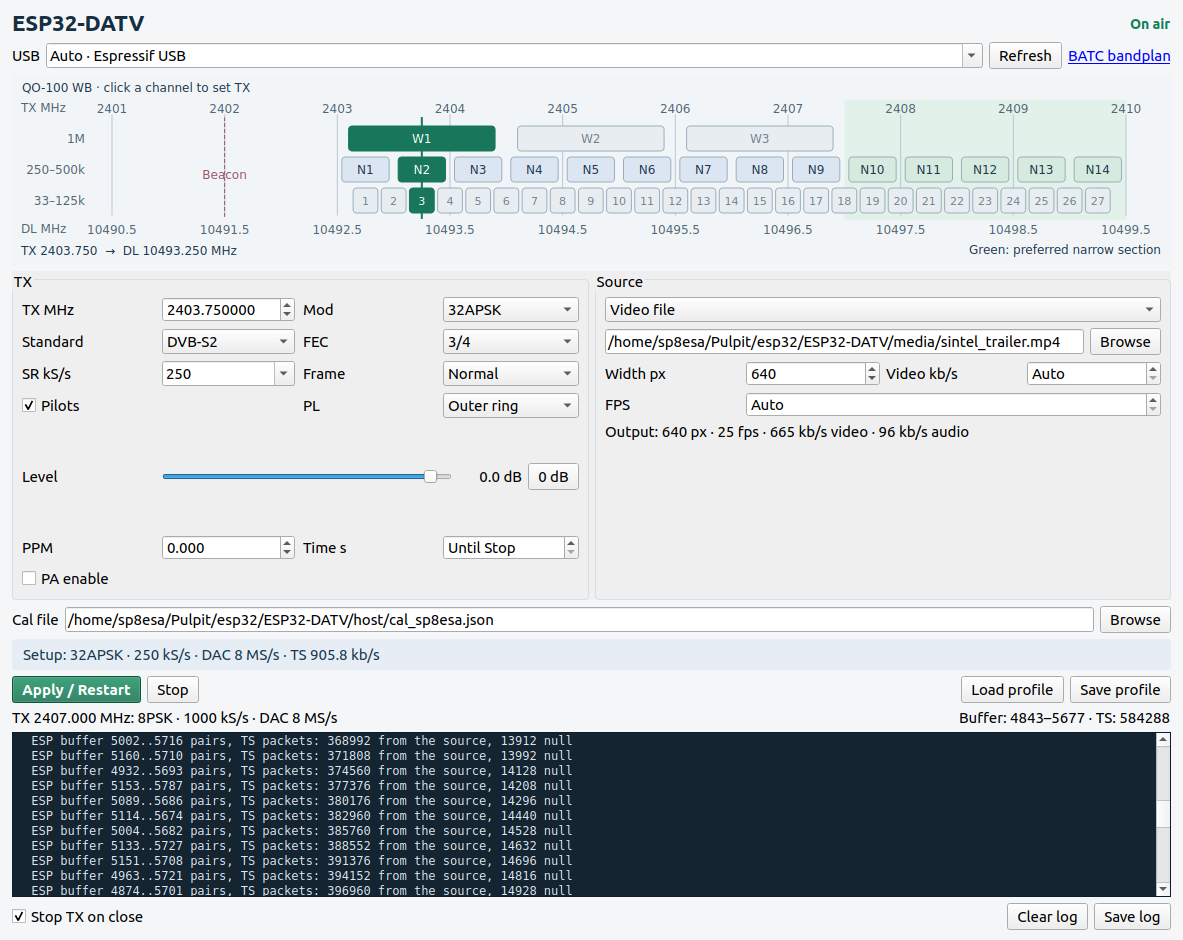
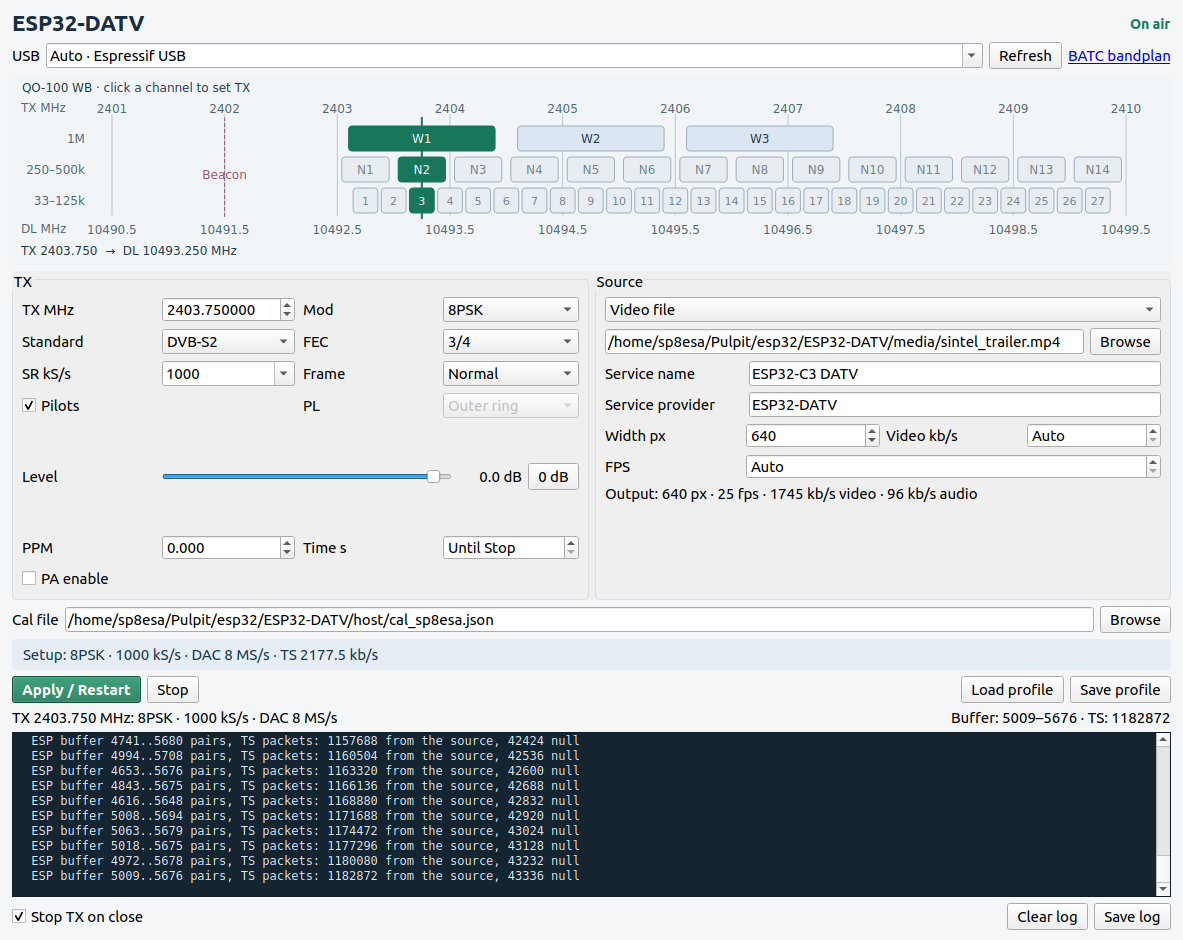
Make service metadata editable in transmitter GUI

diff --git a/host/tx_dvbs.py b/host/tx_dvbs.py
@@ -44,7 +44,8 @@ sys.path.insert(0, HERE)
 import dvbs  # noqa: E402
 import dvbs2  # noqa: E402
 import esp_link  # noqa: E402
-from tx_media import build_media_command, encoding_settings, validate_source
+from tx_media import (build_media_command, encoding_settings, validate_source,
+                      DEFAULT_SERVICE_NAME, DEFAULT_SERVICE_PROVIDER, validate_service_metadata)
 
 CPU_HZ = 160_000_000
 P8_MIN_PERIOD = 75                 # floor interval, including fractional-deadline overhead in the C loop
@@ -59,7 +60,8 @@ class TsSource:
 
     def __init__(self, kind, arg, cap, width=640, video_k=0, output_fps=0,
                  camera_size="640x480", camera_fps=30, camera_format="auto",
-                 audio_source="none", audio_device="default"):
+                 audio_source="none", audio_device="default",
+                 service_name=DEFAULT_SERVICE_NAME, service_provider=DEFAULT_SERVICE_PROVIDER):
         self.q = queue.Queue(maxsize=400)
         self.kind, self.arg = kind, arg
         self.nulls = self.pkts = 0
@@ -72,7 +74,8 @@ class TsSource:
             return
         validate_source(kind, arg, camera_size, camera_fps, camera_format, audio_source)
         command = build_media_command(kind, arg, cap, width, video_k, output_fps,
-                                      camera_size, camera_fps, camera_format, audio_source, audio_device)
+                                      camera_size, camera_fps, camera_format, audio_source, audio_device,
+                                      service_name=service_name, service_provider=service_provider)
         if command:
             self.proc = subprocess.Popen(command, stdout=subprocess.PIPE, stdin=subprocess.DEVNULL, start_new_session=True)
             self.input = self.proc.stdout
@@ -287,6 +290,8 @@ def build_parser():
     ap.add_argument("--camera-format", choices=("auto", "mjpeg", "yuyv422", "nv12", "h264"), default="auto")
     ap.add_argument("--audio-source", choices=("none", "pulse", "alsa"), default="none", help="camera audio; none supplies silence")
     ap.add_argument("--audio-device", default="default", help="PulseAudio or ALSA capture device")
+    ap.add_argument("--service-name", default=DEFAULT_SERVICE_NAME, help="service name for generated/remuxed TS")
+    ap.add_argument("--service-provider", default=DEFAULT_SERVICE_PROVIDER, help="service provider for generated/remuxed TS")
     ap.add_argument("--dc-i", type=float, help="override I DC correction [DAC codes]")
     ap.add_argument("--dc-q", type=float, help="override Q DC correction [DAC codes]")
     ap.add_argument("--iq-gain", type=float, help="override Q gain (0.7..1.3)")
@@ -312,6 +317,7 @@ class Transmission:
 
 def resolve_transmission(a):
     """Resolve automatic settings and validate before opening USB or a source."""
+    validate_service_metadata(a.service_name, a.service_provider)
     if not all(math.isfinite(v) for v in (a.freq, a.ppm, a.seconds, a.fps, a.camera_fps)):
         raise ValueError("Frequency, correction and timing values must be finite")
     if not esp_link.BAND[0] <= a.freq <= esp_link.BAND[1]:
@@ -412,7 +418,8 @@ def main(argv=None):
     value = a.camera if kind == "camera" else a.ts if kind == "ts" else a.film or DEMO_FILM
     try:
         src = TsSource(kind, value, cap, a.width, a.video_k, a.fps,
-                       a.camera_size, a.camera_fps, a.camera_format, a.audio_source, a.audio_device)
+                       a.camera_size, a.camera_fps, a.camera_format, a.audio_source, a.audio_device,
+                       service_name=a.service_name, service_provider=a.service_provider)
     except ValueError as e:
         raise SystemExit(str(e))
     khz = round((a.freq * 1e6 - if_hz) / 1000 / (1 + a.ppm * 1e-6))

diff --git a/host/tx_media.py b/host/tx_media.py
@@ -4,6 +4,15 @@ from pathlib import Path
 import re
 from urllib.parse import urlsplit
 
+DEFAULT_SERVICE_NAME = "ESP32-C3 DATV"
+DEFAULT_SERVICE_PROVIDER = "ESP32-DATV"
+
+
+def validate_service_metadata(service_name, service_provider):
+    for label, value in (("Service name", service_name), ("Service provider", service_provider)):
+        if not isinstance(value, str) or "\0" in value:
+            raise ValueError(f"{label} must be text without NUL characters")
+
 
 @dataclass(frozen=True)
 class VideoEncoding:
@@ -69,10 +78,13 @@ def validate_source(kind, value, camera_size="640x480", camera_fps=30, camera_fo
 
 def build_media_command(kind, value, cap, width=640, video_k=0, output_fps=0,
                         camera_size="640x480", camera_fps=30, camera_format="auto",
-                        audio_source="none", audio_device="default"):
+                        audio_source="none", audio_device="default",
+                        service_name=DEFAULT_SERVICE_NAME, service_provider=DEFAULT_SERVICE_PROVIDER):
+    validate_service_metadata(service_name, service_provider)
+    metadata = ["-metadata", f"service_provider={service_provider}", "-metadata", f"service_name={service_name}"]
     prefix = ["ffmpeg", "-nostdin", "-hide_banner", "-loglevel", "error"]
     if kind == "ts" and is_ts_url(value):
-        return prefix + ["-i", value, "-map", "0:v?", "-map", "0:a?", "-c", "copy", "-f", "mpegts", "-"]
+        return prefix + ["-i", value, "-map", "0:v?", "-map", "0:a?", "-c", "copy", "-f", "mpegts"] + metadata + ["-"]
     if kind not in ("film", "test", "camera"):
         return None
     v = encoding_settings(cap, width, video_k, output_fps)
@@ -100,6 +112,5 @@ def build_media_command(kind, value, cap, width=640, video_k=0, output_fps=0,
               "-x264-params", "nal-hrd=cbr:force-cfr=1", "-pix_fmt", "yuv420p",
               "-c:a", "mp2", "-b:a", f"{v.audio_k}k", "-ac", str(v.channels), "-ar", str(v.sample_rate),
               "-f", "mpegts", "-muxrate", str(v.mux), "-pcr_period", "40" if v.audio_k > 50 else "100",
-              "-pat_period", str(v.pat_period), "-mpegts_flags", "+resend_headers",
-              "-metadata", "service_provider=ESP32-DATV", "-metadata", "service_name=ESP32-C3 DATV", "-"]
-    return prefix + inputs + maps + encode
+              "-pat_period", str(v.pat_period), "-mpegts_flags", "+resend_headers"]
+    return prefix + inputs + maps + encode + metadata + ["-"]

diff --git a/host/tx_gui_model.py b/host/tx_gui_model.py
@@ -11,7 +11,8 @@ from pathlib import Path
 import dvbs
 import dvbs2
 from tx_dvbs import DEMO_FILM, HERE, build_parser, resolve_transmission, source_kind
-from tx_media import encoding_settings, is_ts_url, validate_source
+from tx_media import (encoding_settings, is_ts_url, validate_source,
+                      DEFAULT_SERVICE_NAME, DEFAULT_SERVICE_PROVIDER, validate_service_metadata)
 from qo100_bandplan import CHANNELS
 
 REPO = Path(HERE).parent
@@ -82,12 +83,15 @@ class Settings:
     camera_format: str = "auto"
     audio_source: str = "none"
     audio_device: str = "default"
+    service_name: str = DEFAULT_SERVICE_NAME
+    service_provider: str = DEFAULT_SERVICE_PROVIDER
     width: int = 640
     video_k: int = 0
     fps: float = 0.
     cal: str = str(Path(HERE) / "cal.json")
 
     def argv(self):
+        validate_service_metadata(self.service_name, self.service_provider)
         if not isinstance(self.pa_enable, bool):
             raise ValueError("PA enable must be true or false")
         if self.standard not in ("DVB-S", "DVB-S2"):
@@ -108,6 +112,7 @@ class Settings:
         if self.port:
             args += ["--port", self.port]
         args += ["--cal", self.cal]
+        args += [f"--service-name={self.service_name}", f"--service-provider={self.service_provider}"]
         if self.source in ("film", "ts", "camera"):
             args += ["--" + self.source, getattr(self, self.source)]
         elif self.source == "ts_url":

diff --git a/host/tx_gui.py b/host/tx_gui.py
@@ -395,6 +395,12 @@ class MainWindow(W.QMainWindow):
                 self.pair(f, 3, "Audio device", self.edit("audio_device", "default or hw:0,0"))
             self.source_pages.addWidget(page)
         source_layout.addWidget(self.source_pages)
+        self.service_controls = W.QWidget()
+        service = W.QGridLayout(self.service_controls)
+        service.setContentsMargins(0, 0, 0, 0)
+        self.pair(service, 0, "Service name", self.edit("service_name"))
+        self.pair(service, 1, "Service provider", self.edit("service_provider"))
+        source_layout.addWidget(self.service_controls)
         self.encoding_controls = W.QWidget()
         enc = W.QGridLayout(self.encoding_controls)
         enc.setContentsMargins(0, 0, 0, 0)
@@ -564,6 +570,8 @@ class MainWindow(W.QMainWindow):
             self.source_pages.setCurrentIndex(("film", "ts", "ts_url", "camera", "test", "null", "cw").index(source))
             self.source_pages.updateGeometry()
             self.encoding_controls.setVisible(source in ("film", "test", "camera"))
+            self.service_controls.setEnabled(source in ("film", "test", "camera", "ts_url"))
+            self.service_controls.setToolTip("TS files keep their service metadata." if source == "ts" else "")
             self.widgets["audio_device"].setEnabled(settings.audio_source != "none")
             self.bandplan.set_selection(settings.freq, settings.baud)
             mode, a = settings.resolve()

diff --git a/README.md b/README.md
@@ -49,6 +49,10 @@ python3 -m pip install -r host/requirements.txt
 
 Replace `/dev/ttyACM0` with your board's port if necessary.
 
+Prebuilt firmware is available in [Releases](https://github.com/SP8ESA/ESP32-DATV/releases/latest).
+Download the firmware ZIP, unzip it and run `./flash.sh /dev/ttyACM0`
+(requires `python3 -m pip install esptool`). The bundle targets ESP32-C3 with 4 MB flash.
+
 ## Usage
 
 For the desktop GUI, install its dependencies and run:
@@ -58,7 +62,7 @@ python3 -m pip install -r host/requirements-gui.txt
 ./uruchom_nadajnik.sh
 ```
 
-<p align="center"><a href="docs/tx_gui.png"><img src="docs/tx_gui.png" alt="ESP32-DATV transmitter GUI with QO-100 channels, source selection and PA enable" width="1000"></a></p>
+<p align="center"><a href="docs/tx_gui.png"><img src="docs/tx_gui.png" alt="ESP32-DATV GUI with QO-100 channels, source selection, service metadata and PA enable" width="1000"></a></p>
 
 The single-panel GUI selects video, TS or a V4L2 camera and controls TX, Start/Stop
 and profiles. Click a [QO-100 WB channel](https://wiki.batc.org.uk/QO-100_WB_Bandplan)
@@ -71,6 +75,8 @@ It defaults to off; use Apply/Restart after changing the checkbox.
 Sampling and buffer settings are automatic; I/Q calibration comes from the selected
 JSON file. Defaults: 0 ppm, DC I/Q 0, Q gain 1, Q phase 0. The earlier board-specific
 example is in `host/cal_sp8esa.json`. Ready TS must fit the channel capacity.
+Service name and provider are editable for video, camera, test and TS URL sources;
+defaults are `ESP32-C3 DATV` and `ESP32-DATV`. TS files keep their own metadata.
 
 Run from the repository root with `.venv` activated. These examples loop the included
 Sintel trailer at 2370 MHz; FFmpeg adjusts the video and audio to the channel capacity.
@@ -114,6 +120,7 @@ Useful options:
 | `--cal file.json`, `--no-cal` | Use your own I/Q calibration or disable the included example calibration |
 | `--amp N` | DAC amplitude; defaults: 300 for QPSK, 400 for 32APSK, 420 for 8PSK/16APSK |
 | `--pa-enable` | Enable an external PA via GPIO3 while transmitting |
+| `--service-name NAME`, `--service-provider NAME` | Service metadata for generated or remuxed TS |
 
 All options: `python3 host/tx_dvbs.py --help`.
 
